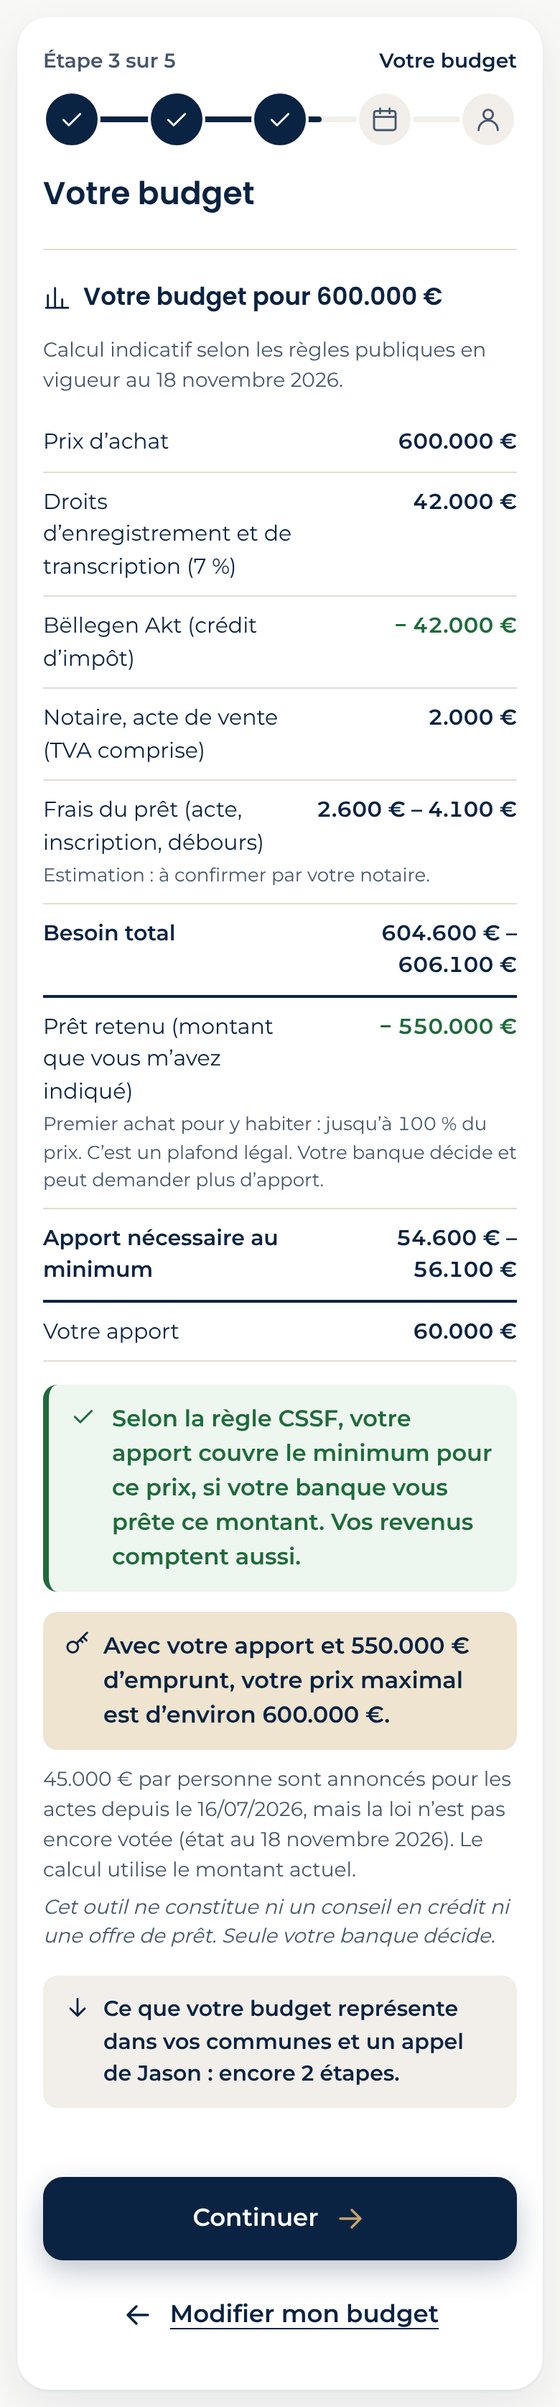
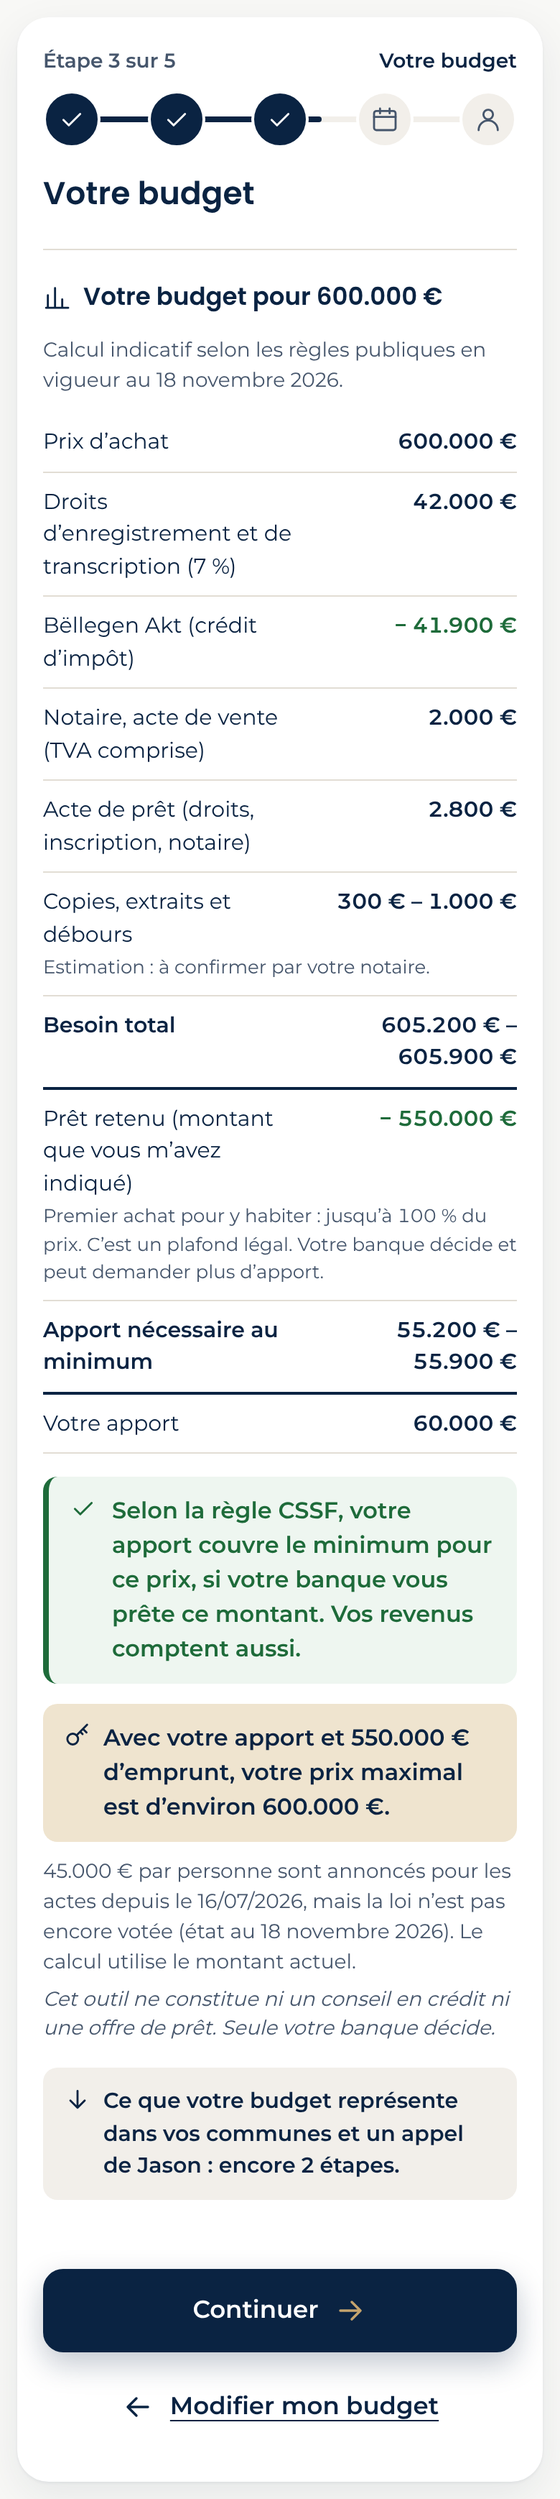
Outil acheteur : frais vérifiés (barème 5 de l'acte de prêt, perception minimale de 100 €), textes
Claude-Session: https://claude.ai/code/session_01846hvtDCGosG1joqDaaTFb

diff --git a/acheteur-widget/docs/exemple-email-lead.html b/acheteur-widget/docs/exemple-email-lead.html
@@ -2,7 +2,7 @@
 <div style="max-width:640px;margin:0 auto;background:#ffffff;border-top:4px solid #C5A46D;padding:24px">
 <h1 style="font-size:20px;margin:0 0 16px">[Acheteur · CHAUD] Marie Muller – Dudelange/Kayl/Bettembourg – Appartement – 600.000 €</h1>
 <h2 style="font-size:16px;margin:24px 0 8px;padding-bottom:4px;border-bottom:1px solid #F2EFEA">En un coup d’œil</h2>
-<table role="presentation" style="width:100%;border-collapse:collapse;font-size:14px"><tr><td style="padding:4px 12px 4px 0;vertical-align:top;color:#4a5a70;width:42%">Priorité</td><td style="padding:4px 0;vertical-align:top">🔥 Chaud – dès que possible + doit d’abord vendre au Luxembourg, veut être accompagné(e), veut le courtier partenaire, apport suffisant pour ce prix</td></tr><tr><td style="padding:4px 12px 4px 0;vertical-align:top;color:#4a5a70;width:42%">Rappeler</td><td style="padding:4px 0;vertical-align:top">Marie Muller – +352 621 123 456</td></tr><tr><td style="padding:4px 12px 4px 0;vertical-align:top;color:#4a5a70;width:42%">E-mail</td><td style="padding:4px 0;vertical-align:top">marie.muller@example.lu</td></tr><tr><td style="padding:4px 12px 4px 0;vertical-align:top;color:#4a5a70;width:42%">Langue</td><td style="padding:4px 0;vertical-align:top">Français</td></tr></table>
+<table role="presentation" style="width:100%;border-collapse:collapse;font-size:14px"><tr><td style="padding:4px 12px 4px 0;vertical-align:top;color:#4a5a70;width:42%">Priorité</td><td style="padding:4px 0;vertical-align:top">🔥 Chaud – dès que possible + doit d’abord vendre au Luxembourg, veut être accompagné(e), veut le courtier partenaire</td></tr><tr><td style="padding:4px 12px 4px 0;vertical-align:top;color:#4a5a70;width:42%">Rappeler</td><td style="padding:4px 0;vertical-align:top">Marie Muller – +352 621 123 456</td></tr><tr><td style="padding:4px 12px 4px 0;vertical-align:top;color:#4a5a70;width:42%">E-mail</td><td style="padding:4px 0;vertical-align:top">marie.muller@example.lu</td></tr><tr><td style="padding:4px 12px 4px 0;vertical-align:top;color:#4a5a70;width:42%">Langue</td><td style="padding:4px 0;vertical-align:top">Français</td></tr></table>
 <h2 style="font-size:16px;margin:24px 0 8px;padding-bottom:4px;border-bottom:1px solid #F2EFEA">À dire au téléphone</h2>
 <table role="presentation" style="width:100%;border-collapse:collapse;font-size:14px"><tr><td style="padding:4px 12px 4px 0;vertical-align:top;color:#4a5a70;width:42%">1.</td><td style="padding:4px 0;vertical-align:top">Doit d’abord vendre son bien au Luxembourg → proposer l’estimation (estimatioun.lu ou visite).</td></tr><tr><td style="padding:4px 12px 4px 0;vertical-align:top;color:#4a5a70;width:42%">2.</td><td style="padding:4px 0;vertical-align:top">Souhaite être mis(e) en relation avec le courtier partenaire → transmettre à atHome Finance.</td></tr><tr><td style="padding:4px 12px 4px 0;vertical-align:top;color:#4a5a70;width:42%">3.</td><td style="padding:4px 0;vertical-align:top">Intéressé(e) par l’accompagnement acheteur (négociation, état du bien) : OUI.</td></tr><tr><td style="padding:4px 12px 4px 0;vertical-align:top;color:#4a5a70;width:42%">4.</td><td style="padding:4px 0;vertical-align:top">Prêt(e) à acheter un bien à rénover (selon le prix) → argument ImmoBuild.</td></tr><tr><td style="padding:4px 12px 4px 0;vertical-align:top;color:#4a5a70;width:42%">5.</td><td style="padding:4px 0;vertical-align:top">Veut être prévenu(e) si un bien correspondant arrive → vérifier dans Apimo.</td></tr></table>
 <h2 style="font-size:16px;margin:24px 0 8px;padding-bottom:4px;border-bottom:1px solid #F2EFEA">Projet</h2>
@@ -12,7 +12,7 @@
 <h2 style="font-size:16px;margin:24px 0 8px;padding-bottom:4px;border-bottom:1px solid #F2EFEA">Budget (déclaratif)</h2>
 <table role="presentation" style="width:100%;border-collapse:collapse;font-size:14px"><tr><td style="padding:4px 12px 4px 0;vertical-align:top;color:#4a5a70;width:42%">Prix visé</td><td style="padding:4px 0;vertical-align:top">600.000 €</td></tr><tr><td style="padding:4px 12px 4px 0;vertical-align:top;color:#4a5a70;width:42%">Apport</td><td style="padding:4px 0;vertical-align:top">60.000 €</td></tr><tr><td style="padding:4px 12px 4px 0;vertical-align:top;color:#4a5a70;width:42%">A parlé à sa banque</td><td style="padding:4px 0;vertical-align:top">pas encore</td></tr><tr><td style="padding:4px 12px 4px 0;vertical-align:top;color:#4a5a70;width:42%">Sait combien emprunter</td><td style="padding:4px 0;vertical-align:top">non</td></tr><tr><td style="padding:4px 12px 4px 0;vertical-align:top;color:#4a5a70;width:42%">Revenu net du ménage / mois</td><td style="padding:4px 0;vertical-align:top">6 000 – 8 000 €</td></tr><tr><td style="padding:4px 12px 4px 0;vertical-align:top;color:#4a5a70;width:42%">Mise en relation courtier partenaire</td><td style="padding:4px 0;vertical-align:top">OUI → atHome Finance</td></tr></table>
 <h2 style="font-size:16px;margin:24px 0 8px;padding-bottom:4px;border-bottom:1px solid #F2EFEA">Calcul affiché au visiteur</h2>
-<table role="presentation" style="width:100%;border-collapse:collapse;font-size:14px"><tr><td style="padding:4px 12px 4px 0;vertical-align:top;color:#4a5a70;width:42%">Droits d’enregistrement et de transcription (7 %)</td><td style="padding:4px 0;vertical-align:top">42.000 €</td></tr><tr><td style="padding:4px 12px 4px 0;vertical-align:top;color:#4a5a70;width:42%">Bëllegen Akt déduit</td><td style="padding:4px 0;vertical-align:top">− 42.000 € (plafond 80.000 €)</td></tr><tr><td style="padding:4px 12px 4px 0;vertical-align:top;color:#4a5a70;width:42%">Notaire, acte de vente (TVA comprise)</td><td style="padding:4px 0;vertical-align:top">2.000 €</td></tr><tr><td style="padding:4px 12px 4px 0;vertical-align:top;color:#4a5a70;width:42%">Frais du prêt (estimation)</td><td style="padding:4px 0;vertical-align:top">2.700 € à 4.200 €</td></tr><tr><td style="padding:4px 12px 4px 0;vertical-align:top;color:#4a5a70;width:42%">Besoin total</td><td style="padding:4px 0;vertical-align:top">604.800 € à 606.300 €</td></tr><tr><td style="padding:4px 12px 4px 0;vertical-align:top;color:#4a5a70;width:42%">Règle CSSF</td><td style="padding:4px 0;vertical-align:top">100 % (premier achat)</td></tr><tr><td style="padding:4px 12px 4px 0;vertical-align:top;color:#4a5a70;width:42%">Prêt retenu</td><td style="padding:4px 0;vertical-align:top">600.000 €</td></tr><tr><td style="padding:4px 12px 4px 0;vertical-align:top;color:#4a5a70;width:42%">Apport nécessaire</td><td style="padding:4px 0;vertical-align:top">4.800 € à 6.300 €</td></tr><tr><td style="padding:4px 12px 4px 0;vertical-align:top;color:#4a5a70;width:42%">Écart avec l’apport déclaré</td><td style="padding:4px 0;vertical-align:top">suffisant (+53.700 € au moins)</td></tr></table>
+<table role="presentation" style="width:100%;border-collapse:collapse;font-size:14px"><tr><td style="padding:4px 12px 4px 0;vertical-align:top;color:#4a5a70;width:42%">Droits d’enregistrement et de transcription (7 %)</td><td style="padding:4px 0;vertical-align:top">42.000 €</td></tr><tr><td style="padding:4px 12px 4px 0;vertical-align:top;color:#4a5a70;width:42%">Bëllegen Akt déduit</td><td style="padding:4px 0;vertical-align:top">− 41.900 € (plafond 80.000 €)</td></tr><tr><td style="padding:4px 12px 4px 0;vertical-align:top;color:#4a5a70;width:42%">Notaire, acte de vente (TVA comprise)</td><td style="padding:4px 0;vertical-align:top">2.000 €</td></tr><tr><td style="padding:4px 12px 4px 0;vertical-align:top;color:#4a5a70;width:42%">Acte de prêt (0,24 % + 0,05 % + notaire barème 5, TVA)</td><td style="padding:4px 0;vertical-align:top">2.900 €</td></tr><tr><td style="padding:4px 12px 4px 0;vertical-align:top;color:#4a5a70;width:42%">Copies, extraits, débours (hypothèse)</td><td style="padding:4px 0;vertical-align:top">300 € à 1.000 €</td></tr><tr><td style="padding:4px 12px 4px 0;vertical-align:top;color:#4a5a70;width:42%">Besoin total</td><td style="padding:4px 0;vertical-align:top">605.400 € à 606.100 €</td></tr><tr><td style="padding:4px 12px 4px 0;vertical-align:top;color:#4a5a70;width:42%">Règle CSSF</td><td style="padding:4px 0;vertical-align:top">100 % (premier achat)</td></tr><tr><td style="padding:4px 12px 4px 0;vertical-align:top;color:#4a5a70;width:42%">Prêt retenu</td><td style="padding:4px 0;vertical-align:top">600.000 €</td></tr><tr><td style="padding:4px 12px 4px 0;vertical-align:top;color:#4a5a70;width:42%">Apport nécessaire</td><td style="padding:4px 0;vertical-align:top">5.400 € à 6.100 €</td></tr><tr><td style="padding:4px 12px 4px 0;vertical-align:top;color:#4a5a70;width:42%">Écart avec l’apport déclaré</td><td style="padding:4px 0;vertical-align:top">suffisant (+53.900 € au moins)</td></tr></table>
 <h2 style="font-size:16px;margin:24px 0 8px;padding-bottom:4px;border-bottom:1px solid #F2EFEA">Ce que 600.000 € représente (1er juillet 2025 – 30 juin 2026)</h2>
 <table role="presentation" style="width:100%;border-collapse:collapse;font-size:14px"><tr><td style="padding:4px 12px 4px 0;vertical-align:top;color:#4a5a70;width:42%">Dudelange – appartement</td><td style="padding:4px 0;vertical-align:top">≈ 92 m² (6.512 €/m², ventes notariées, 130 ventes)</td></tr><tr><td style="padding:4px 12px 4px 0;vertical-align:top;color:#4a5a70;width:42%">Kayl – appartement</td><td style="padding:4px 0;vertical-align:top">≈ 83 m² (7.257 €/m², ventes notariées, 60 ventes)</td></tr><tr><td style="padding:4px 12px 4px 0;vertical-align:top;color:#4a5a70;width:42%">Bettembourg – appartement</td><td style="padding:4px 0;vertical-align:top">≈ 82 m² (7.280 €/m², ventes notariées, 48 ventes)</td></tr></table>
 <h2 style="font-size:16px;margin:24px 0 8px;padding-bottom:4px;border-bottom:1px solid #F2EFEA">Contexte</h2>

diff --git a/acheteur-widget/src/shared/budget.ts b/acheteur-widget/src/shared/budget.ts
@@ -9,16 +9,26 @@ export type Params = typeof import('../../params.json');
 
 const roundTo = (v: number, step: number) => Math.round(v / step) * step;
 
-/** Honoraires du notaire pour un acte de vente (barème par tranches), hors TVA */
-export function notaireHT(prix: number, p: Params): number {
+/** Honoraires du notaire par tranches (mêmes tranches pour les barèmes 7 et 5), hors TVA */
+function bareme(montant: number, p: Params, taux: number[]): number {
   let total = 0;
   let bas = 0;
-  for (const t of p.notaire.tranches) {
+  p.notaire.tranches.forEach((t, i) => {
     const haut = t.jusqua ?? Infinity;
-    if (prix > bas) total += (Math.min(prix, haut) - bas) * t.taux;
+    if (montant > bas) total += (Math.min(montant, haut) - bas) * taux[i];
     bas = haut;
-  }
+  });
   return Math.max(total, p.notaire.minimum);
+}
+
+/** Acte de vente : barème 7, hors TVA */
+export function notaireHT(prix: number, p: Params): number {
+  return bareme(prix, p, p.notaire.tranches.map((t) => t.taux));
+}
+
+/** Acte de prêt : barème 5, hors TVA */
+export function notairePretHT(pret: number, p: Params): number {
+  return bareme(pret, p, p.pret.bareme5);
 }
 
 /** Quotité maximale de prêt selon le règlement CSSF 20-08 */
@@ -39,16 +49,15 @@ export function bellegenPlafond(i: Pick<BudgetInput, 'usage' | 'achat' | 'belleg
 function raw(i: BudgetInput, prix: number, p: Params) {
   const droits = prix * p.droits.taux;
   const plafond = bellegenPlafond(i, p);
-  const bellegen = Math.min(droits, plafond);
+  // L'AED perçoit toujours au moins 100 € : le crédit ne peut pas effacer tous les droits
+  const bellegen = Math.max(0, Math.min(plafond, droits - p.bellegen.perception_minimale));
   const notaireVente = notaireHT(prix, p) * (1 + p.notaire.tva);
   const { ltv, rule } = ltvFor(i, p);
   const pretMaxCssf = prix * ltv;
   const pret = i.capaciteMontant !== null ? Math.min(pretMaxCssf, i.capaciteMontant) : pretMaxCssf;
-  const fraisFixes = pret * (p.pret.droit_acte_pret + p.pret.inscription);
-  const fraisPretMin = pret > 0 ? fraisFixes + p.pret.divers_min : 0;
-  const fraisPretMax = pret > 0 ? fraisFixes + p.pret.divers_max : 0;
-  const base = prix + droits - bellegen + notaireVente;
-  return { droits, plafond, bellegen, notaireVente, ltv, rule, pretMaxCssf, pret, fraisPretMin, fraisPretMax, totalMin: base + fraisPretMin, totalMax: base + fraisPretMax };
+  const fraisPret = pret > 0 ? pret * (p.pret.droit_acte_pret + p.pret.inscription) + notairePretHT(pret, p) * (1 + p.notaire.tva) : 0;
+  const base = prix + droits - bellegen + notaireVente + fraisPret;
+  return { droits, plafond, bellegen, notaireVente, ltv, rule, pretMaxCssf, pret, fraisPret, totalMin: base + p.divers.min, totalMax: base + p.divers.max };
 }
 
 /**
@@ -92,8 +101,9 @@ export function computeBudget(i: BudgetInput, p: Params): Budget {
     pretMaxCssf: rd(r.pretMaxCssf),
     pret: rd(r.pret),
     pretLimiteParCapacite: i.capaciteMontant !== null && i.capaciteMontant < r.pretMaxCssf,
-    fraisPretMin: rd(r.fraisPretMin),
-    fraisPretMax: rd(r.fraisPretMax),
+    fraisPret: rd(r.fraisPret),
+    fraisDiversMin: p.divers.min,
+    fraisDiversMax: p.divers.max,
     totalMin: rd(r.totalMin),
     totalMax: rd(r.totalMax),
     apportNecessaireMin: rd(apportNecessaireMin),

diff --git a/acheteur-widget/tests/budget.test.ts b/acheteur-widget/tests/budget.test.ts
@@ -26,15 +26,16 @@ describe('Budget complet', () => {
   it('Couple, premier achat, 600 000 € : calcul à la main', () => {
     const b = computeBudget(couple(), PARAMS);
     expect(b.droits).toBe(42000); // 7 %
-    expect(b.bellegen).toBe(42000); // plafond 80 000 €, limité aux droits
-    expect(b.droitsNets).toBe(0);
+    expect(b.bellegen).toBe(41900); // plafond 80 000 €, mais l'AED perçoit toujours au moins 100 €
+    expect(b.droitsNets).toBe(100);
     expect(b.notaireVente).toBe(2000); // 1 750,23 × 1,17 = 2 047,77 → arrondi à 100 €
     expect(b.pret).toBe(600000); // 100 %
-    expect(b.fraisPretMin).toBe(2700); // 600 000 × 0,29 % = 1 740 + 1 000
-    expect(b.fraisPretMax).toBe(4200); // 1 740 + 2 500
-    expect(b.apportNecessaireMin).toBe(4800); // 2 047,77 + 2 740
-    expect(b.apportNecessaireMax).toBe(6300); // 2 047,77 + 4 240
-    expect(b.margeMin).toBe(53700);
+    // acte de prêt : 600 000 × 0,29 % = 1 740 + barème 5 (1 028,18 × 1,17 = 1 202,97) = 2 942,97
+    expect(b.fraisPret).toBe(2900);
+    expect([b.fraisDiversMin, b.fraisDiversMax]).toEqual([300, 1000]);
+    expect(b.apportNecessaireMin).toBe(5400); // 100 + 2 047,77 + 2 942,97 + 300 = 5 390,74
+    expect(b.apportNecessaireMax).toBe(6100); // … + 1 000 = 6 090,74
+    expect(b.margeMin).toBe(53900);
     expect(b.prixMax).toBeNull(); // pas de montant d'emprunt connu : pas de prix maximal
   });
 
@@ -43,9 +44,9 @@ describe('Budget complet', () => {
     expect(b.bellegen).toBe(0);
     expect(b.droitsNets).toBe(28000);
     expect(b.pret).toBe(320000);
-    // 80 000 + 28 000 + 1 813,77 + 928 + 1 000 = 111 741,77
-    expect(b.apportNecessaireMin).toBe(111700);
-    expect(b.apportNecessaireMax).toBe(113200);
+    // 80 000 + 28 000 + 1 813,77 + acte de prêt (928 + 888,18 × 1,17 = 1 967,17) + 300 = 112 080,94
+    expect(b.apportNecessaireMin).toBe(112100);
+    expect(b.apportNecessaireMax).toBe(112800);
     expect(b.margeMin).toBeLessThan(0);
   });
 
@@ -58,6 +59,11 @@ describe('Budget complet', () => {
     expect(b.droits).toBe(56000);
     expect(b.bellegen).toBe(40000);
     expect(b.droitsNets).toBe(16000);
+  });
+
+  it('Barème 5 (acte de prêt) : 600 000 € = 1 028,18 € HT (vérifié par la recherche)', async () => {
+    const { notairePretHT } = await import('../src/shared/budget');
+    expect(notairePretHT(600000, PARAMS)).toBeCloseTo(1028.18, 1);
   });
 
   it('Bien neuf : les 7 % sont présentés comme un maximum', () => {

diff --git a/acheteur-widget/src/ui/result.ts b/acheteur-widget/src/ui/result.ts
@@ -65,7 +65,8 @@ export function renderBudget(b: Budget, t: T, lang: Lang, o: BudgetOptions): str
       ${row(t('budget.droits'), `${b.droitsMaximum ? '≤\u00a0' : ''}${eur(b.droits)}`, '', b.droitsMaximum ? t('budget.droitsMax') : '')}
       ${row(t('budget.bellegen'), b.bellegen ? `−\u00a0${eur(b.bellegen)}` : eur(0), 'minus', bellegenNote)}
       ${row(t('budget.notaire'), eur(b.notaireVente))}
-      ${b.pret > 0 ? row(t('budget.fraisPret'), esc(range(b.fraisPretMin, b.fraisPretMax, lang)), '', t('budget.fraisPretNote')) : ''}
+      ${b.pret > 0 ? row(t('budget.fraisPret'), eur(b.fraisPret)) : ''}
+      ${row(t('budget.divers'), rangeHtml(b.fraisDiversMin, b.fraisDiversMax, lang), '', t('budget.fraisPretNote'))}
       ${row(t('budget.total'), `<strong>${rangeHtml(b.totalMin, b.totalMax, lang)}</strong>`, 'total')}
       ${row(b.pretLimiteParCapacite ? t('budget.pretCapacite') : t('budget.pret'), `−\u00a0${eur(b.pret)}`, 'minus', `${t(`budget.ltv.${b.ltvRule}`)} ${t('budget.ltvNote')}`)}
       ${row(t('budget.apportNecessaire'), `<strong>${rangeHtml(b.apportNecessaireMin, b.apportNecessaireMax, lang)}</strong>`, 'total')}

diff --git a/acheteur-widget/src/shared/email.ts b/acheteur-widget/src/shared/email.ts
@@ -162,7 +162,8 @@ export function leadSections(s: Submission, b: Budget, communes: CommuneM2[], da
         ['Droits d’enregistrement et de transcription (7 %)', `${eur(b.droits)}${b.droitsMaximum ? ' (maximum : bien neuf)' : ''}`],
         ['Bëllegen Akt déduit', `− ${eur(b.bellegen)}${b.bellegenPlafond ? ` (plafond ${eur(b.bellegenPlafond)})` : ''}`],
         ['Notaire, acte de vente (TVA comprise)', eur(b.notaireVente)],
-        ['Frais du prêt (estimation)', range(b.fraisPretMin, b.fraisPretMax)],
+        ['Acte de prêt (0,24 % + 0,05 % + notaire barème 5, TVA)', eur(b.fraisPret)],
+        ['Copies, extraits, débours (hypothèse)', range(b.fraisDiversMin, b.fraisDiversMax)],
         ['Besoin total', range(b.totalMin, b.totalMax)],
         ['Règle CSSF', L.ltv[b.ltvRule]],
         ['Prêt retenu', `${eur(b.pret)}${b.pretLimiteParCapacite ? ' (limité au montant indiqué par le visiteur)' : ''}`],

diff --git a/acheteur-widget/src/shared/types.ts b/acheteur-widget/src/shared/types.ts
@@ -136,9 +136,11 @@ export interface Budget {
   /** prêt retenu : règle CSSF, ou montant connu du visiteur s'il est plus bas */
   pret: number;
   pretLimiteParCapacite: boolean;
-  /** frais liés au prêt : droits sur l'acte de prêt + inscription hypothécaire + estimation des honoraires et débours */
-  fraisPretMin: number;
-  fraisPretMax: number;
+  /** acte de prêt : droit de 0,24 % + inscription 0,05 % + honoraires du notaire (barème 5, TVA comprise) */
+  fraisPret: number;
+  /** copies, extraits, débours (vente et prêt) : estimation */
+  fraisDiversMin: number;
+  fraisDiversMax: number;
   totalMin: number;
   totalMax: number;
   /** apport nécessaire au minimum (fourchette, à cause des frais estimés) */

diff --git a/acheteur-widget/README.md b/acheteur-widget/README.md
@@ -32,11 +32,13 @@ Comme l’outil d’estimation : pas de base de données, pas de cookie, pas de 
 | --- | --- | --- | --- |
 | Droits | 7 % du prix (6 % + 1 %) | guichet.public.lu, page du 07/07/2025 | officiel |
 | Bien neuf | 7 % affiché comme **maximum** (souvent seulement sur le terrain et la partie construite) | | prudent |
-| Bëllegen Akt | 40 000 € par personne, plafonné aux droits ; 0 si investissement ou déjà utilisé | guichet.public.lu | officiel |
+| Bëllegen Akt | 40 000 € par personne, plafonné aux droits ; l’AED perçoit toujours au moins 100 € ; 0 si investissement ou déjà utilisé | guichet.public.lu, pfi.public.lu | officiel |
+| Ville de Luxembourg, Mamer | surtaxe communale (+50 % du droit d’enregistrement) **seulement** pour les immeubles à usage mixte ou commercial : 0 pour un logement, donc pas dans l’outil | pfi.public.lu (surtaxe), guichet.public.lu | vérifié le 18/11/2026 |
 | 45 000 € annoncés | **affichés comme information, pas utilisés** (projet de loi 8806 pas voté au 18/11/2026) | gouvernement.lu, chd.lu | à mettre à jour quand la loi passe : `bellegen.par_personne` |
 | Prêt maximal | 100 % premier achat pour y habiter ; 90 % autre résidence principale ; 90 % si « je ne sais pas » ; 80 % investissement | Règlement CSSF 20-08, FAQ du 09/03/2026 | officiel |
-| Notaire, vente | barème 7 par tranches + TVA 17 % (600 000 € → 2 048 €) | repris de tevaxia.lu | **texte légal à relire** sur legilux |
-| Frais du prêt | 0,24 % + 0,05 % du prêt + **1 000 à 2 500 €** (honoraires de l’acte de prêt, débours) | 0,05 % : pfi.public.lu ; 0,24 % : sites privés | **hypothèse à valider** (`pret.divers_min/max`) |
+| Notaire, vente | barème 7 par tranches + TVA 17 % (600 000 € → 2 048 €) | notariat.lu, texte coordonné du Conseil d’État (doc. 51.123) | vérifié |
+| Acte de prêt | 0,24 % + 0,05 % du prêt + honoraires barème 5 + TVA (600 000 € → 2 943 €) | pfi.public.lu (tarif, hypothèques), barème 5 | vérifié ; des exemptions existent : calcul prudent |
+| Copies, extraits, débours | **300 à 1 000 €** | | **hypothèse à valider** (`divers`) |
 | Prix maximal | seulement si le visiteur connaît son montant d’emprunt (sinon, avec 100 % de prêt, seul le revenu limiterait, et l’outil ne calcule pas de prêt) | | |
 | m² par commune | appartement : ventes notariées (≥ 10), neuf : ventes VEFA (≥ 10), sinon médiane du canton ; maison : **prix annoncés** (≥ 30), sinon médiane du canton | Observatoire de l’Habitat | « prix demandés » écrit en clair pour les maisons |
 
@@ -58,7 +60,7 @@ Même procédure que l’outil d’estimation (voir son README, parties 1 à 3),
 cd acheteur-widget
 npm install
 cp .dev.vars.example .dev.vars   # EMAIL_MODE=log : aucun e-mail ne part en local
-npm test                          # 52 tests
+npm test                          # 56 tests
 npm run dev                       # http://localhost:8788/ et /demo.html
 ```
 
@@ -87,11 +89,11 @@ cd acheteur-widget && npm run sync-data && npm test && npm run deploy
 ## À faire par toi avant la mise en ligne
 
 1. `config.json` : vérifier `contactUrl`, `privacyUrl` (vraies adresses), `quickCommunes` (raccourcis de l’étape 2, actuellement Luxembourg, Esch, Dudelange, Bettembourg, Differdange, Mersch).
-2. `params.json` : valider l’hypothèse des frais du prêt (1 000 à 2 500 €) et relire le barème du notaire sur legilux.
+2. `params.json` : valider l’hypothèse « copies, extraits, débours » (300 à 1 000 €) avec un notaire.
 3. Politique de confidentialité : ajouter les nouvelles données (budget, revenu en tranche) et **nommer atHome Finance comme destinataire possible** (voir `PRIVACY.md`).
 4. Quand le projet de loi 8806 est voté : `params.json` → `bellegen.par_personne` = 45000 (et mettre à jour `_source`). L’annonce « pas encore votée » disparaît alors toute seule.
 
-## Tests (52)
+## Tests (56)
 
 | Sujet | Fichier |
 | --- | --- |

diff --git a/acheteur-widget/docs/concept.md b/acheteur-widget/docs/concept.md
@@ -604,7 +604,9 @@ Gebaut in `acheteur-widget/`, nach Jasons Startsignal vom 18.11.2026. Bei der Pr
 | --- | --- | --- | --- |
 | Neubau (VEFA) | 7 % auf den ganzen Preis | 7 % als **Höchstwert** angezeigt, mit Hinweis | Bei Neubau fallen die Gebühren oft nur auf Grundstück und bereits gebauten Teil an. Mit vollen 7 % wäre der Bedarf überschätzt und als genau dargestellt worden. |
 | Kaufpreis | freiwillig, sonst Höchstpreis aus Eigenkapital | **Pflicht** | Bei Erstkäufern (100 % Kredit) begrenzt nur das Einkommen den Preis. Da das Tool absichtlich nicht mit dem Einkommen rechnet, wäre ein „Höchstpreis“ nur aus dem Eigenkapital sinnlos hoch. Höchstpreis nur, wenn der Käufer seinen möglichen Kreditbetrag kennt. |
-| Nebenkosten des Kredits | Spanne 4 000–6 000 € | 0,24 % + 0,05 % des Kredits + **1 000–2 500 € (Annahme)** | So wird die Spanne mit dem Kreditbetrag größer oder kleiner. Die 1 000–2 500 € sind eine Annahme und stehen so in `params.json`. |
+| Nebenkosten des Kredits | Spanne 4 000–6 000 € | 0,24 % + 0,05 % + Notarhonorar nach Barème 5 + MwSt. (geprüft am 18.11.2026), dazu Kopien/Auslagen **300–1 000 € (Annahme)** | Nach dem Faktencheck: Barème 5 gefunden, die Annahme ist nur noch der kleine Rest. |
+| Bëllegen Akt | bis zur Höhe der Gebühren | mindestens 100 € Gebühr bleiben immer | AED erhebt laut guichet.lu immer mindestens 100 €. |
+| Zuschlag Stadt Luxemburg / Mamer | nicht bedacht | nicht nötig | Gilt nur für gewerblich oder gemischt genutzte Gebäude (pfi.public.lu). |
 | 45 000 € Bëllegen Akt | Hinweis | Hinweis, **verschwindet automatisch**, sobald `par_personne` auf 45 000 gesetzt wird | Weniger Pflege. |
 | Name des Courtiers | im Kästchen | **nicht im Kästchen und nicht im Code des Browsers** (`server.json`) | Jasons Wunsch. Der Name stand anfangs noch im Browser-Code, das habe ich beim Prüfen korrigiert. Schalter `courtierNomPublic` in `config.json`, falls er ihn doch zeigen will (Datenschutz-Hinweis in `PRIVACY.md`). |
 | Käufermandat | Zeile im Ergebnis | Frage in Schritt 4 (freiwillig) **und** Karte im Ergebnis | Damit die Antwort in der Lead-E-Mail steht. |
